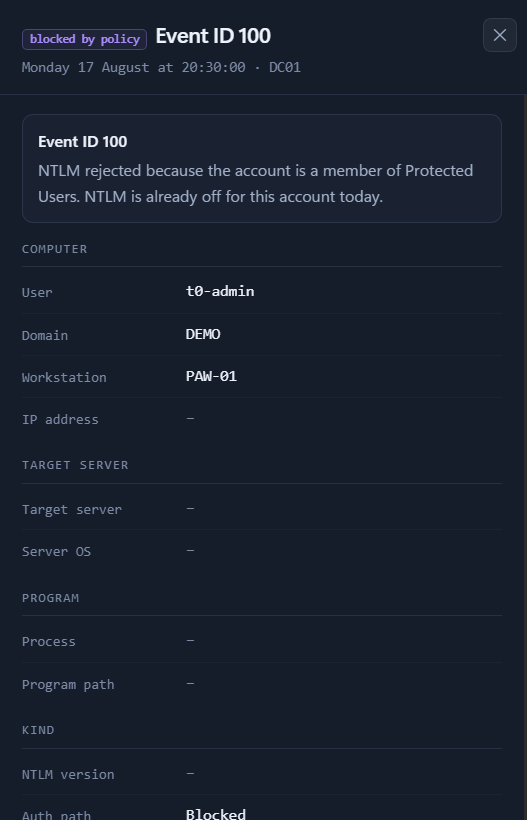
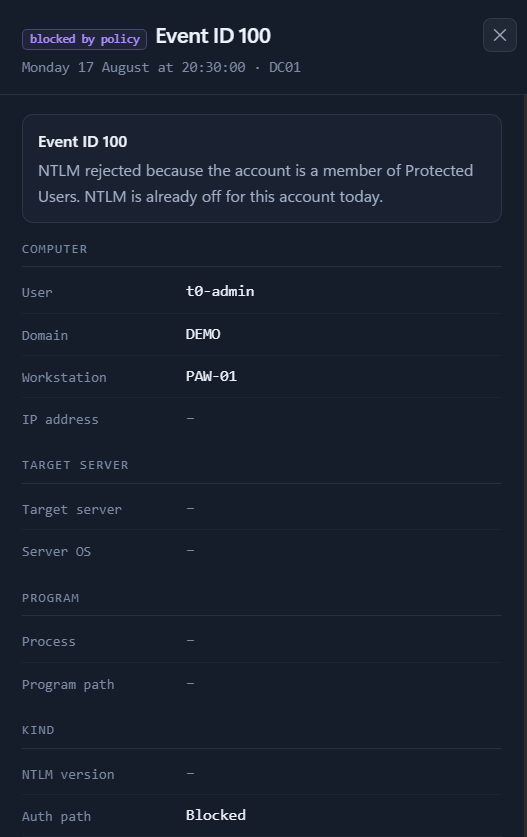
docs: crop the event drawer on a row boundary

diff --git a/docs/index.html b/docs/index.html
@@ -469,7 +469,7 @@ code{font-family:var(--mono);font-size:.9em}
           view you are looking at is a link you can send.</p>
           <div class="view__note">CSV export · <b>English and German</b></div>
         </div>
-        <figure><img src="img/12-event-detail.png" alt="Event detail drawer showing all raw fields of a single logon with explanations" loading="lazy" width="527" height="820" style="--nat:527px"></figure>
+        <figure><img src="img/12-event-detail.png" alt="Event detail drawer showing all raw fields of a single logon with explanations" loading="lazy" width="527" height="837" style="--nat:527px"></figure>
       </div>
 
     </div>
